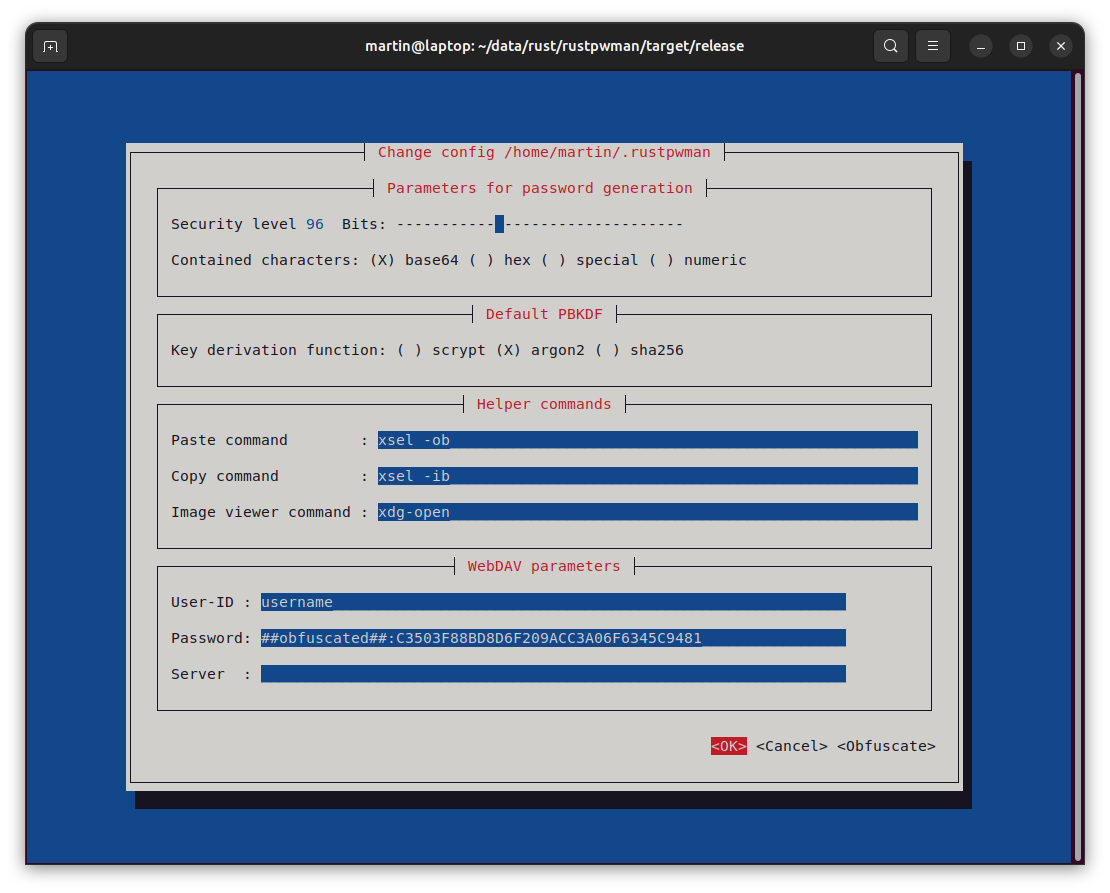
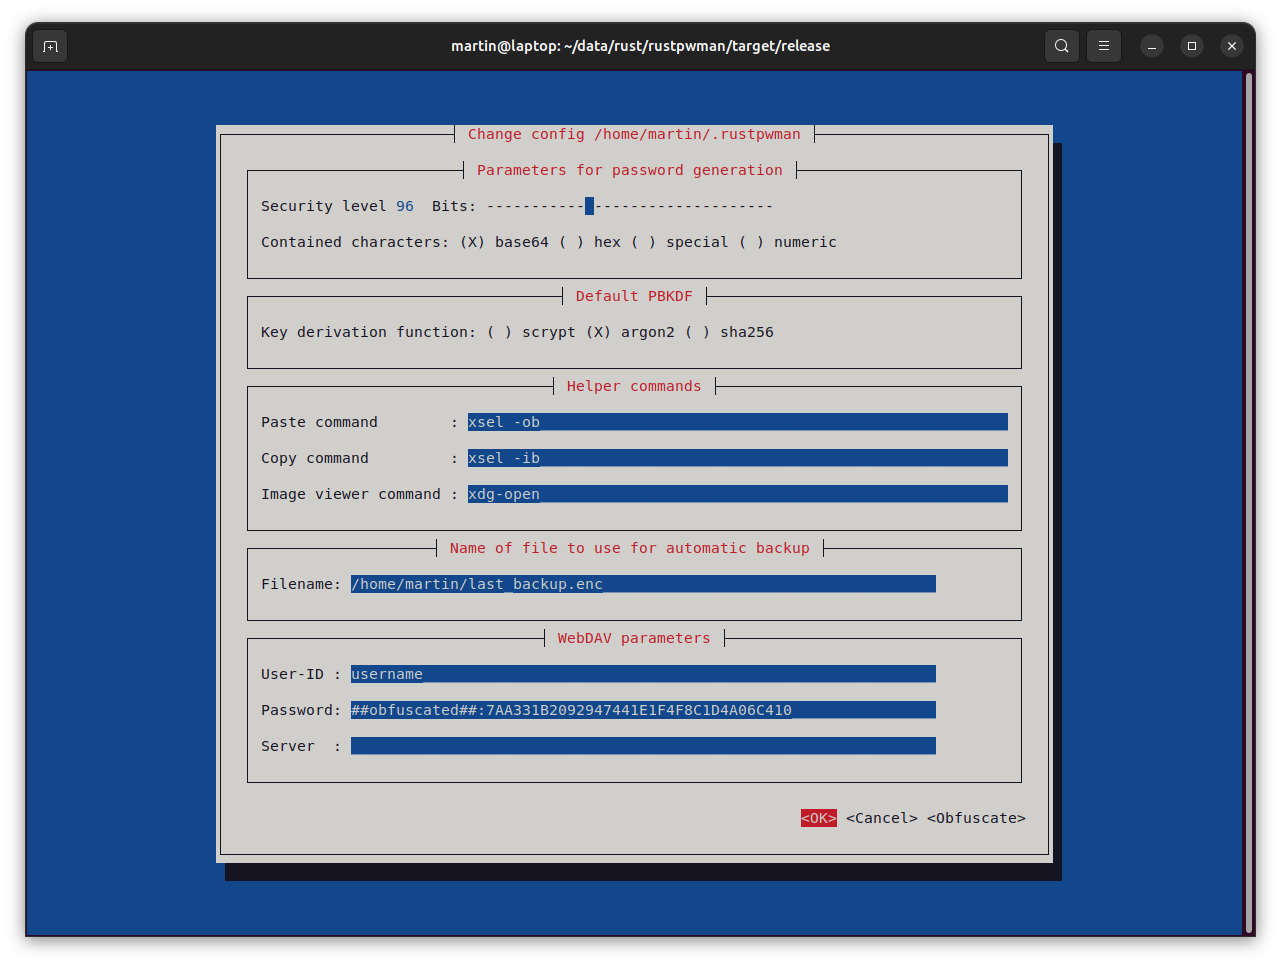
Allow to set backup file name via config file

diff --git a/src/tuiconfig.rs b/src/tuiconfig.rs
@@ -22,6 +22,7 @@ use crate::tomlconfig::RustPwManSerialize;
 use crate::pwgen;
 use crate::fcrypt;
 use crate::modtui;
+use crate::RustPwMan;
 use crate::tuiconfig;
 #[cfg(feature = "webdav")]
 use crate::OBFUSCATION_ENV_VAR;
@@ -39,6 +40,9 @@ const EDIT_PASTE_COMMAND: &str = "pastecmd";
 const EDIT_COPY_COMMAND: &str = "copycmd";
 #[cfg(feature = "qrcode")]
 const EDIT_VIEWER_COMMAND: &str = "viewercmd";
+#[cfg(feature = "writebackup")]
+const EDIT_BACKUP_FILE: &str = "backupfile";
+
 
 pub fn show_yes_no_decision(siv: &mut Cursive, msg: &str) {
     siv.add_layer(
@@ -96,7 +100,7 @@ pub fn obfuscate_password(s: &mut Cursive) {
     s.call_on_name("webdav_password", |view: &mut EditView| { view.set_content(pw) });
 }
 
-pub fn save_new_config(s: &mut Cursive, u: &String, p: &String, srv: &String, config_file: &std::path::PathBuf, strat: &RadioGroup<pwgen::GenerationStrategy>, pbkdf: &RadioGroup<fcrypt::KdfId>, vwr: &Option<String>) {
+pub fn save_new_config(s: &mut Cursive, u: &String, p: &String, srv: &String, config_file: &std::path::PathBuf, strat: &RadioGroup<pwgen::GenerationStrategy>, pbkdf: &RadioGroup<fcrypt::KdfId>, vwr: &Option<String>, bkp_file: &Option<String>) {
     #[allow(unused_mut, unused_assignments)]
     let mut user = u.clone();
     #[allow(unused_mut, unused_assignments)]
@@ -105,6 +109,8 @@ pub fn save_new_config(s: &mut Cursive, u: &String, p: &String, srv: &String, co
     let mut server = srv.clone();
     #[allow(unused_mut, unused_assignments)]
     let mut viewer_command = vwr.clone();
+    #[allow(unused_mut, unused_assignments)]
+    let mut backup_file_name = bkp_file.clone();
 
     let rand_bytes = match s.call_on_name(SLIDER_SEC_NAME, |view: &mut SliderView| { view.get_value() }) {
         Some(v) => v,
@@ -147,6 +153,23 @@ pub fn save_new_config(s: &mut Cursive, u: &String, p: &String, srv: &String, co
         }
     }
 
+    #[cfg(feature = "writebackup")]
+    {
+        let backup_file_name_txt = match s.call_on_name(EDIT_BACKUP_FILE, |view: &mut EditView| { view.get_content() }) {
+            Some(v) => v,
+            None => {
+                show_message(s, "Unable to determine backup file name");
+                return;
+            }
+        };
+
+        if backup_file_name_txt.len() != 0 {
+            backup_file_name = Some(String::from(backup_file_name_txt.as_str()));
+        } else {
+            backup_file_name = None;
+        }
+    }
+
 
     #[cfg(feature = "webdav")]
     if let Some(t) = s.call_on_name("webdav_user", |view: &mut EditView| { view.get_content() }) {
@@ -175,7 +198,7 @@ pub fn save_new_config(s: &mut Cursive, u: &String, p: &String, srv: &String, co
     let strategy = strat.selection();
     let pbkdf = &pbkdf.selection();
 
-    let new_config = RustPwManSerialize::new(rand_bytes, pbkdf.to_str(), strategy.to_str(), clip_command.as_str(), copy_command.as_str(), user.as_str(), pw.as_str(), server.as_str(), viewer_command, None);
+    let new_config = RustPwManSerialize::new(rand_bytes, pbkdf.to_str(), strategy.to_str(), clip_command.as_str(), copy_command.as_str(), user.as_str(), pw.as_str(), server.as_str(), viewer_command, backup_file_name);
 
     match tomlconfig::save(config_file, new_config) {
         Some(e) => {
@@ -187,7 +210,8 @@ pub fn save_new_config(s: &mut Cursive, u: &String, p: &String, srv: &String, co
     };
 }
 
-pub fn config_main(config_file: std::path::PathBuf, sec_level: usize, pw_gen_strategy: pwgen::GenerationStrategy, pbkdf_id: fcrypt::KdfId,
+#[allow(unused_variables)]
+pub fn config_main(app: &RustPwMan, config_file: std::path::PathBuf, sec_level: usize, pw_gen_strategy: pwgen::GenerationStrategy, pbkdf_id: fcrypt::KdfId,
                    clp_cmd: &String, cpy_cmd: &String, webdav_user: &String, webdav_pw: &String, webdav_server: &String, viewer_cmd: &Option<String>) {
     let mut siv = cursive::default();
 
@@ -289,6 +313,22 @@ pub fn config_main(config_file: std::path::PathBuf, sec_level: usize, pw_gen_str
             .title("Helper commands")
     );
 
+    #[cfg(feature = "writebackup")]
+    {
+        config_panels.add_child(
+            Panel::new(
+                PaddedView::new(Margins::lrtb(1,1,1,1),
+                    LinearLayout::horizontal()
+                        .child(TextView::new("Filename: "))
+                        .child(EditView::new()
+                            .with_name(EDIT_BACKUP_FILE)
+                            .fixed_width(65))
+            )
+        )
+        .title("Name of file to use for automatic backup")
+        );
+    }
+
     #[cfg(feature = "webdav")]
     {
         config_panels.add_child(
@@ -344,8 +384,10 @@ pub fn config_main(config_file: std::path::PathBuf, sec_level: usize, pw_gen_str
     let p = webdav_pw.clone();
     let serv = webdav_server.clone();
     let vwr = viewer_cmd.clone();
+    let bkp_f = app.get_backup_file_name_str();
+    let bkp_f_helper = bkp_f.clone();
 
-    res.add_button("OK", move |s| save_new_config(s, &u, &p, &serv, &config_file, &strategy_group, &pbkdf_group, &vwr));
+    res.add_button("OK", move |s| save_new_config(s, &u, &p, &serv, &config_file, &strategy_group, &pbkdf_group, &vwr, &bkp_f));
     res.add_button("Cancel", |s| s.quit() );
 
     #[cfg(feature = "webdav")]
@@ -355,6 +397,15 @@ pub fn config_main(config_file: std::path::PathBuf, sec_level: usize, pw_gen_str
     show_sec_bits(&mut siv, sec_level);
     siv.call_on_name(EDIT_PASTE_COMMAND, |view: &mut EditView| { view.set_content(clp_cmd) });
     siv.call_on_name(EDIT_COPY_COMMAND, |view: &mut EditView| { view.set_content(cpy_cmd) });
+
+    #[cfg(feature = "writebackup")]
+    {
+        if let Some(bkp) = bkp_f_helper {
+            siv.call_on_name(EDIT_BACKUP_FILE, |view: &mut EditView| { view.set_content(bkp.clone()) });
+        } else {
+            siv.call_on_name(EDIT_BACKUP_FILE, |view: &mut EditView| { view.set_content(String::from("")) });
+        }
+    }
 
     #[cfg(feature = "webdav")]
     {

diff --git a/src/main.rs b/src/main.rs
@@ -215,6 +215,10 @@ impl RustPwMan {
         };
     }
 
+    pub fn get_backup_file_name_str(&self) -> Option<String> {
+        return self.bkp_file_name.clone();
+    }
+
     #[allow(dead_code)]
     pub fn get_backup_file_name(&self) -> std::path::PathBuf {
         let mut path = std::path::PathBuf::new();
@@ -629,7 +633,7 @@ impl RustPwMan {
             viewer_cmd = self.viewer_command.clone();
         }
 
-        tuiconfig::config_main(config_file_name, self.default_sec_level, self.default_pw_gen, self.default_deriver_id, &self.paste_command, &self.copy_command, &self.webdav_user, &self.webdav_pw, &self.webdav_server, &viewer_cmd);
+        tuiconfig::config_main(self, config_file_name, self.default_sec_level, self.default_pw_gen, self.default_deriver_id, &self.paste_command, &self.copy_command, &self.webdav_user, &self.webdav_pw, &self.webdav_server, &viewer_cmd);
     }
 
     fn perform_generate_command(&mut self, generate_matches: &clap::ArgMatches) {

diff --git a/src/modtui/qrcode.rs b/src/modtui/qrcode.rs
@@ -144,7 +144,7 @@ pub fn create(s: &mut Cursive, state_for_create_qr_entry: Arc<Mutex<AppState>>) 
                 .child(TextView::new("Filename: "))
                 .child(EditView::new()
                     .with_name(QR_CODE_FILE_NAME)
-                    .fixed_width(60))        
+                    .fixed_width(60))
         )
     )
     .button("Cancel", |s| { s.pop_layer(); })

diff --git a/README.md b/README.md
@@ -238,7 +238,7 @@ which will open a window similar to this one
 
 ![](/scrshot_cfg.png?raw=true "Screenshot of rustpwman cfg")
 
-This screenshot was taken while running a version which was compiled with the `webdav` and the `qrcode` feature. Here is an example for a `rustpwman` configuration file:
+This screenshot was taken while running a version which was compiled with all features. Here is an example for a `rustpwman` configuration file:
 
 ```
 [defaults]
@@ -248,18 +248,22 @@ pwgen = "special"
 clip_cmd = "xsel -ob"
 copy_cmd = "xsel -ib"
 viewer_cmd = "xdg-open"
+bkp_file_name = "/home/user/backup_file.enc"
 webdav_user = ""
 webdav_pw = ""
 webdav_server = ""
 ```
+
+Where the entries have the following semantics:
 
 - `seclevel` has to be an integer between 0 and 31. The security level in bits is calculated as (`seclevel` + 1) * 8.
 - `pbkdf` is a string that can assume the values `scrypt`, `argon2`, `sha256`
 - `pwgen` is one of the strings `base64`, `hex`, `numeric` or `special`
 - `clip_cmd` is a string which specifies a command that can be used to write the current contents of the clipboard to stdout.
 - `copy_cmd` is a string which specifies a command that can be used to transfer the data sent to it via stdin to the clipboard.
-- `viewer_cmd` is a string which specifies a command that can be used to show an image. This entry is optional.
-- See below for an explanation of  the `webdav_xx` entries.
+- `viewer_cmd` is a string which specifies a command that can be used to show an image, when the `qrcode` feature is active. This entry is optional.
+- `bkp_file_name` is a string which specifies the name of a file in which to store automatic backup when the `writebackup` feature is active. This entry is optional.
+- See [below](#webdav-support) for an explanation of  the `webdav_xx` entries.
 
 The default value for `clip_cmd` is `xsel -ob`, which works on Linux to retrieve the contents of the clipboard, which is filled via `CTRL+C` or after activating the `Copy`
 item from the context menu. If you want to use the primary selection, where text only has to be selected and not explicitly copied then use `xsel -op`. Remark: I had
@@ -282,7 +286,7 @@ You can influence the behaviour of `rustpwman` via the values of the following e
 |Name | Intended use |
 |-|-|
 |`PWMANCIPHER`| If the `chacha20` feature is active and this variable is set then the values `AES192` and `AES256` select AES-192 GCM or AES-256 GCM as a cipher. Any other value selects ChaCha20-Poly1305. If not set AES-256 GCM is used. If an algo is specified on the command line then it takes precendence over the contents of this environment variable. |
-|`PWMANBKP`| If the feature `writebackup` is active the contents of this variable specifies the file name to store the backup in. If the variable is not set the default value `rustpwman_last.enc` will be used. |
+|`PWMANBKP`| If the feature `writebackup` is active the contents of this variable specifies the file name to store the backup in. If neither this variable nor the config entry `bkp_file_name` is set then the default value `rustpwman_last.enc` will be used. If the config entry is present it takes precedence over the environment variable. |
 |`RUSTPWMAN_OBFUSCATION`| Key used to obfuscate WebDAV access data, if the `webdav`  feature is active. |
 |`RUSTPWMAN_VIEWER`| Prefix for the command to start an image viewer to which the file name of the image (containing a QR code) is appended if the `qrcode` feature is enabled. If the value `viewer_cmd` in the config file is set it takes precendence over the environment variable. |
 |`PWMAN_CONFIG`| Full path to an alternative config file. The `-c/--cfgfile` option takes precedence over the environment variable if the option is specified. If neither the environment variable nor the option is used then the `.rustpwman` file in the user's home directory will be utilized as a default. |
@@ -372,7 +376,7 @@ the encryption key used by `rustpwman` in the first place. There are even some (
 I mostly use `rustpwman` to access a password file which resides on a WebDAV share stored at a cloud provider. This is all fine and dandy as long as one can access cloud resources.
 This may not be the case at times when there is no internet connection or if the cloud provider is offline. If the feature `writebackup` is active `rustpwman` stores a local copy
 of the data file after its password has been successfully verified. As a default the backup file is stored in the current directory using the name `rustpwman_last.enc`. This
-default can be overriden by setting the environment variable `PWMANBKP` to the desired name of the backup file. This feature is active by default.
+default can be overriden by setting the environment variable `PWMANBKP` or the config entry `bkp_file_name` to the desired name of the backup file. This feature is active by default.
 
 ## Encoding stored data as a QR code
 
